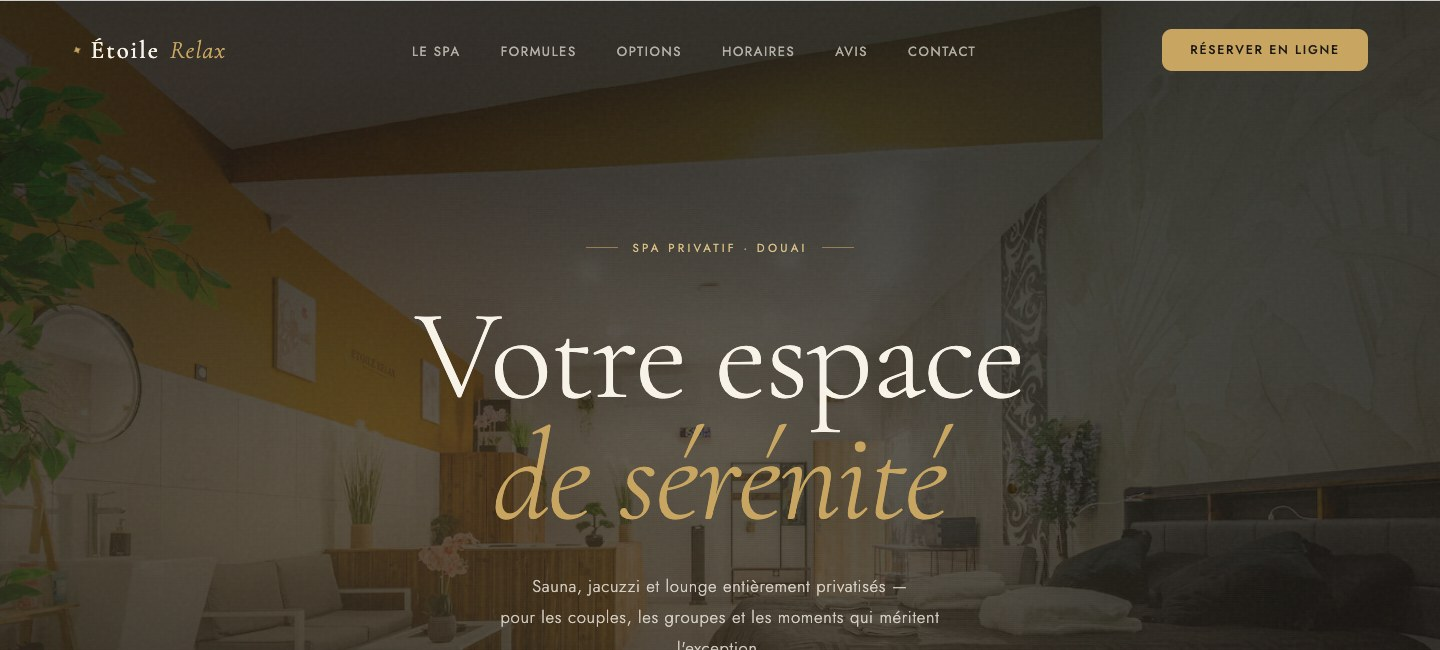
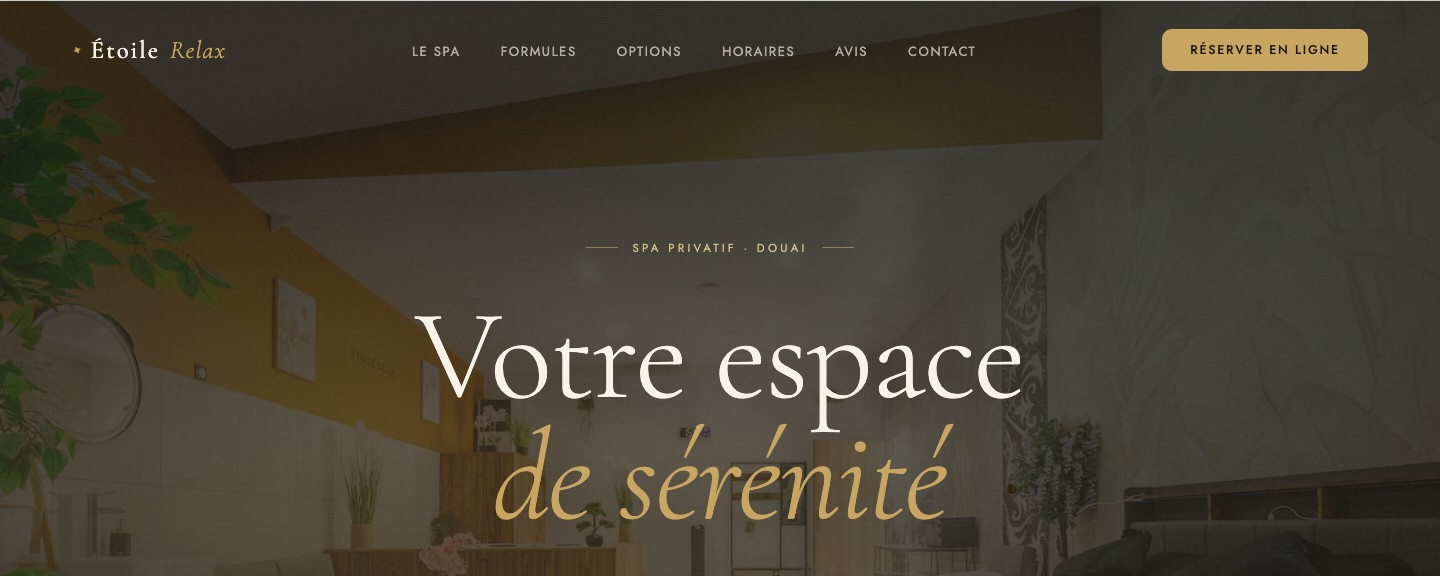
fix: recadrage images réalisations + fondu bas + zoom hover

diff --git a/index.html b/index.html
@@ -329,8 +329,10 @@ h1 em{font-style:italic;color:var(--gold)}
 .real-card:hover{transform:translateY(-5px);box-shadow:0 22px 65px rgba(0,0,0,.55);border-color:var(--border-strong)}
 .real-card.placeholder-card{border-style:dashed;opacity:.7}
 .real-card.placeholder-card:hover{opacity:.9}
-.real-preview{height:210px;position:relative;overflow:hidden;flex-shrink:0}
-.real-preview img{width:100%;height:100%;object-fit:cover;object-position:top center;display:block}
+.real-preview{height:230px;position:relative;overflow:hidden;flex-shrink:0}
+.real-preview img{width:100%;height:100%;object-fit:cover;object-position:top center;display:block;transition:transform .4s cubic-bezier(.22,1,.36,1)}
+.real-card:hover .real-preview img{transform:scale(1.04)}
+.real-preview::after{content:'';position:absolute;bottom:0;left:0;right:0;height:60px;background:linear-gradient(to bottom,transparent,var(--bg3));pointer-events:none;z-index:1}
 /* Hair salon preview */
 /* ── Carré d'Hair : REZOO Dashboard ── */
 .prev-cdh{background:#131208;height:100%;display:grid;grid-template-columns:68px 1fr 82px;overflow:hidden;font-family:'League Spartan',sans-serif}
